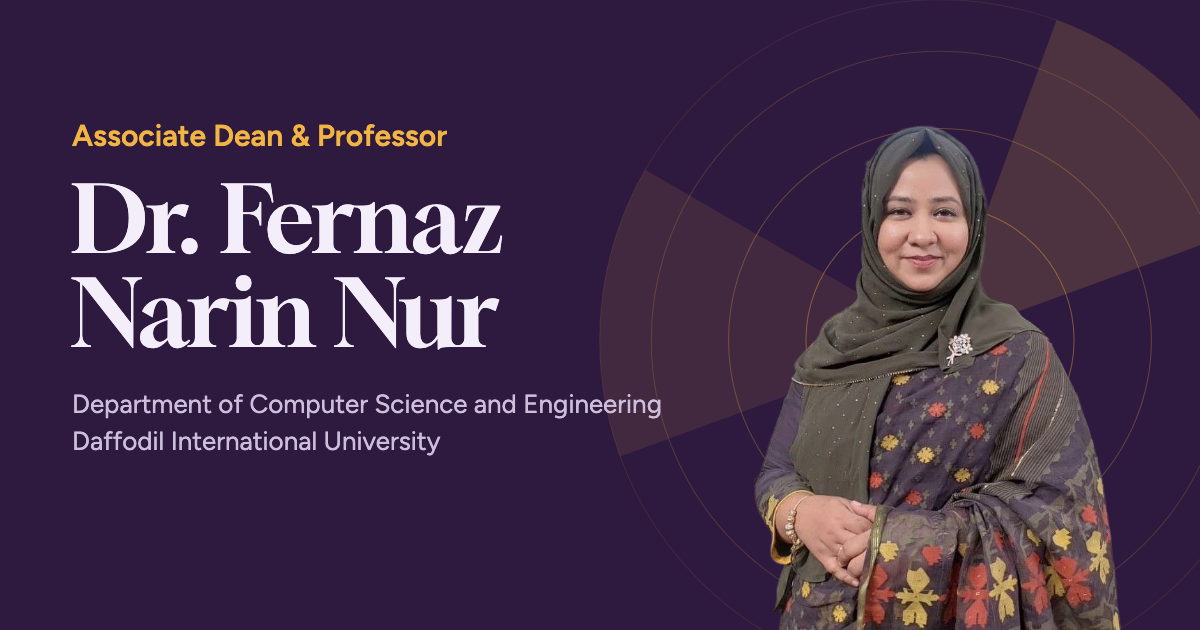
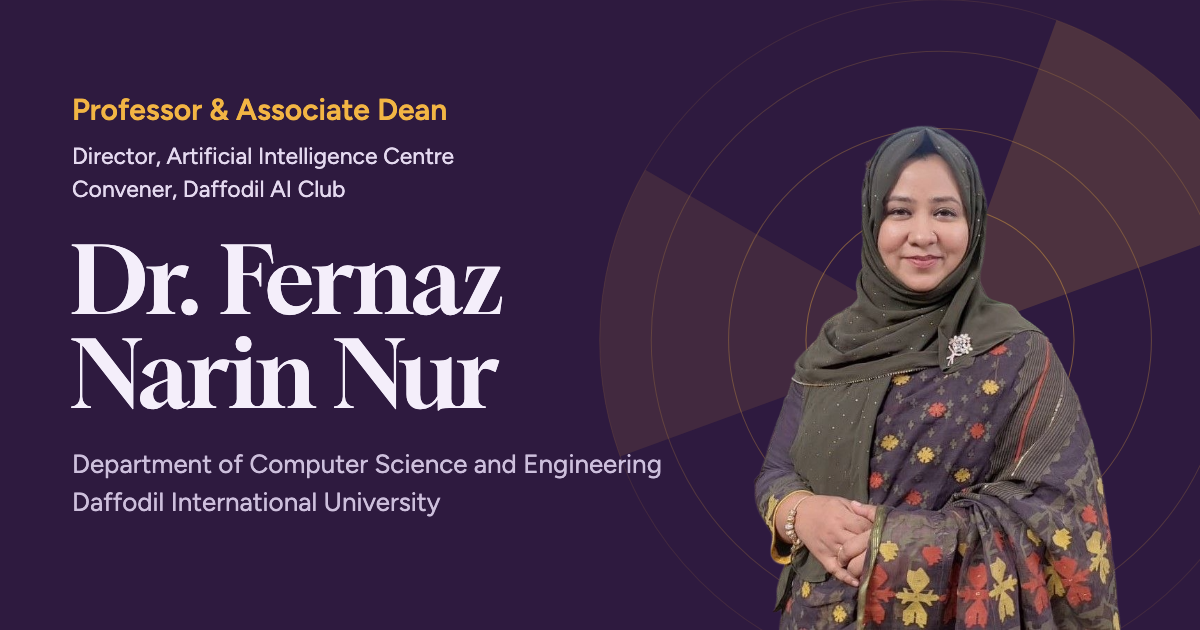
Update the link preview image with her current title and roles
The og:image link gets a version number so apps fetch the new image.

Changed region(s): [[0.0617, 0.1508, 0.555, 0.754], [0.0617, 0.7841, 0.37, 0.8143]]

diff --git a/_layouts/default.html b/_layouts/default.html
@@ -13,7 +13,7 @@
   <meta property="og:title" content="{{ page_title | escape }}">
   <meta property="og:description" content="{{ page_description | escape }}">
   <meta property="og:url" content="{{ page.url | absolute_url }}">
-  <meta property="og:image" content="{{ '/assets/og-image.png' | absolute_url }}">
+  <meta property="og:image" content="{{ '/assets/og-image.png' | absolute_url }}?v=2">
   <meta name="twitter:card" content="summary_large_image">
   <link rel="icon" href="{{ '/assets/favicon.svg' | relative_url }}" type="image/svg+xml">
   <link rel="apple-touch-icon" href="{{ '/assets/apple-touch-icon.png' | relative_url }}">
